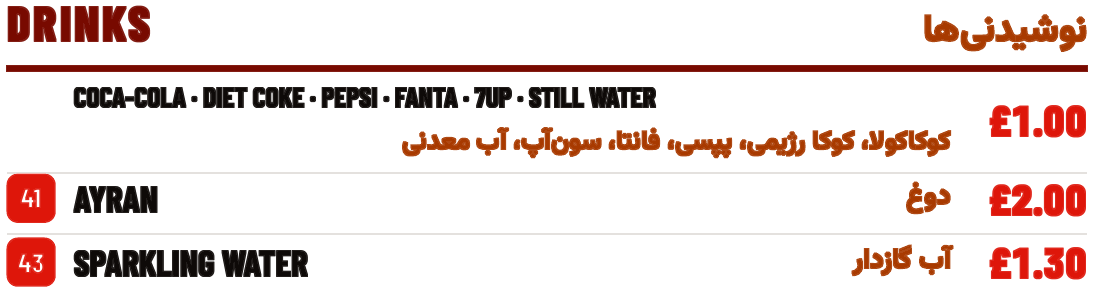
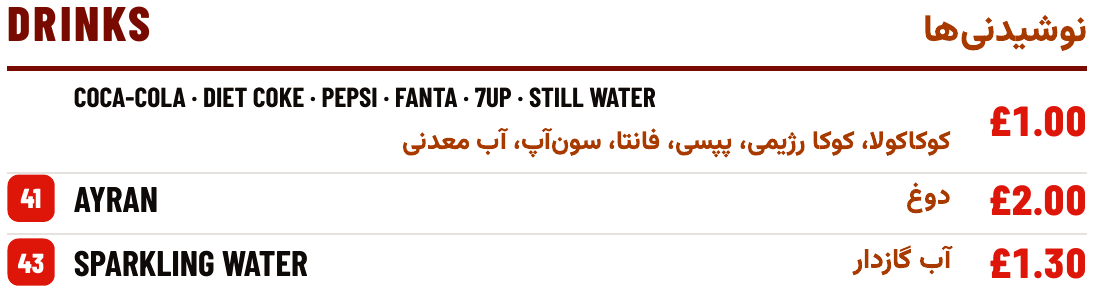
Clearer left TV, thinner type, allergy notice on one TV, no Coming soon, warmer colours
Ryan, 2 Nov, from the shop: the static TV is "way too small ... make it way more clear"; "get rid
of the food allergies, only have them in one section"; "forget the coming soon part"; the text is
"a bit too thick ... 6 and 9 not very visible"; and the photo showed the right TV red/pink and the
left glass white.

- build-walls.py also caps the empty space across each row (between a name and its price), so
  short-line sections are narrower; the left TV's columns take the width each needs. Left TV text
  1.08x -> 1.22x the original boards, all nine sections, nothing removed.
- Right TV: each slide is scaled to fill its space (2.45x-4.19x, was 2.42x for every slide).
- Lettering no longer thickened (it closed up 6, 8, 9).
- Allergy notice only on the right TV; the left TV uses the space for the menu.
- Coming soon slide removed.
- Right TV marble and glass shifted to warm orange and amber (the TV pushes colours red); left
  glass clearly yellow.
- tools/check.cjs: all 7 pass.

Claude-Session: https://claude.ai/code/session_01GCEwpkWzwaa1Hpz45ttbNV

diff --git a/site/monitor-2/layout.css b/site/monitor-2/layout.css
@@ -1,13 +1,12 @@
-/* Made by tools/build-walls.py: do not edit by hand. Right TV, one section at a time, text scale 1.208. */
-.tvslide.sec-starters { left: 1.042%; top: 5.372%; width: 70.104%; height: 81.664%; }
-.tvslide.sec-sauces { left: 1.042%; top: 29.260%; width: 70.104%; height: 33.887%; }
-.tvslide.sec-drinks { left: 1.042%; top: 28.757%; width: 70.104%; height: 34.894%; }
-.tvslide.sec-sandwiches { left: 1.042%; top: 11.022%; width: 70.104%; height: 70.363%; }
-.tvslide.sec-burgers { left: 1.042%; top: 15.386%; width: 70.104%; height: 61.636%; }
-.tvslide.sec-doner { left: 1.042%; top: 27.022%; width: 70.104%; height: 38.363%; }
-.tvslide.sec-platters { left: 1.042%; top: 30.547%; width: 70.104%; height: 31.314%; }
-.tvslide.sec-shawarma { left: 1.042%; top: 30.491%; width: 70.104%; height: 31.425%; }
-.tvslide.sec-hotdogs { left: 1.042%; top: 23.945%; width: 70.104%; height: 44.517%; }
-.tvslide.soon { left: 1.042%; top: 6.852%; width: 70.104%; height: 78.704%; }
-.side { left: 71.875%; top: 1.296%; width: 27.083%; height: 89.815%; }
-.allergy-bar { left: 1.042%; right: 1.042%; top: 92.037%; height: 7.037%; }
+/* Made by tools/build-walls.py: do not edit by hand. Right TV, one section at a time, each as big as fits. */
+.tvslide.sec-starters { left: 9.157%; top: 1.111%; width: 53.977%; height: 90.000%; }
+.tvslide.sec-sauces { left: 0.729%; top: 28.090%; width: 70.833%; height: 36.042%; }
+.tvslide.sec-drinks { left: 0.729%; top: 28.627%; width: 70.833%; height: 34.969%; }
+.tvslide.sec-sandwiches { left: 0.729%; top: 10.651%; width: 70.833%; height: 70.921%; }
+.tvslide.sec-burgers { left: 0.729%; top: 15.074%; width: 70.833%; height: 62.074%; }
+.tvslide.sec-doner { left: 0.729%; top: 21.500%; width: 70.833%; height: 49.223%; }
+.tvslide.sec-platters { left: 0.729%; top: 23.821%; width: 70.833%; height: 44.579%; }
+.tvslide.sec-shawarma { left: 0.729%; top: 19.846%; width: 70.833%; height: 52.530%; }
+.tvslide.sec-hotdogs { left: 0.729%; top: 10.649%; width: 70.833%; height: 70.924%; }
+.side { left: 72.188%; top: 1.111%; width: 27.083%; height: 90.000%; }
+.allergy-bar { left: 0.729%; right: 0.729%; top: 92.037%; height: 7.037%; }

diff --git a/site/monitor-1/layout.css b/site/monitor-1/layout.css
@@ -1,11 +1,10 @@
-/* Made by tools/build-walls.py: do not edit by hand. Left TV, everything at once, text scale 0.542. */
-.sec-starters { left: 1.042%; top: 1.296%; width: 32.153%; height: 46.732%; }
-.sec-sauces { left: 1.042%; top: 49.324%; width: 32.153%; height: 19.963%; }
-.sec-drinks { left: 1.042%; top: 70.584%; width: 32.153%; height: 20.527%; }
-.sec-sandwiches { left: 33.924%; top: 1.296%; width: 32.153%; height: 47.135%; }
-.sec-burgers { left: 33.924%; top: 49.728%; width: 32.153%; height: 41.383%; }
-.sec-doner { left: 66.806%; top: 1.296%; width: 32.153%; height: 22.585%; }
-.sec-platters { left: 66.806%; top: 25.177%; width: 32.153%; height: 18.613%; }
-.sec-shawarma { left: 66.806%; top: 45.087%; width: 32.153%; height: 18.676%; }
-.sec-hotdogs { left: 66.806%; top: 65.059%; width: 32.153%; height: 26.052%; }
-.allergy-bar { left: 1.042%; right: 1.042%; top: 92.037%; height: 7.037%; }
+/* Made by tools/build-walls.py: do not edit by hand. Left TV, everything at once, text scale 0.609. */
+.sec-starters { left: 0.729%; top: 1.111%; width: 33.637%; height: 60.380%; }
+.sec-sauces { left: 0.729%; top: 62.602%; width: 33.637%; height: 36.287%; }
+.sec-sandwiches { left: 34.991%; top: 1.111%; width: 35.763%; height: 39.281%; }
+.sec-burgers { left: 34.991%; top: 41.503%; width: 35.763%; height: 34.880%; }
+.sec-drinks { left: 34.991%; top: 77.494%; width: 35.763%; height: 21.395%; }
+.sec-doner { left: 71.379%; top: 1.111%; width: 27.892%; height: 24.599%; }
+.sec-platters { left: 71.379%; top: 26.821%; width: 27.892%; height: 21.044%; }
+.sec-shawarma { left: 71.379%; top: 48.976%; width: 27.892%; height: 21.100%; }
+.sec-hotdogs { left: 71.379%; top: 71.187%; width: 27.892%; height: 27.702%; }

diff --git a/site/monitor-2/index.html b/site/monitor-2/index.html
@@ -29,13 +29,6 @@
   <div class="card tvslide sec-shawarma" data-hold="7" data-accent="#ffa200" data-scene="4"><img src="/monitor-2/sec-shawarma.png" alt="Shawarma, 28 to 30"></div>
   <div class="card tvslide sec-hotdogs" data-hold="9" data-accent="#ff3a1c" data-scene="5"><img src="/monitor-2/sec-hotdogs.png" alt="Hot dogs, 31 to 35"></div>
   <div class="card tvslide sec-drinks" data-hold="7" data-accent="#ff9a1c" data-scene="8"><img src="/monitor-2/sec-drinks.png" alt="Drinks"></div>
-  <!-- Coming soon (Ryan, 2 Nov 2026): real food photos with the background cut out. Until one is added it
-       shows the words only. To add one: put the cut-out PNG in site/monitor-2/, set it as .soon-photo's src
-       and remove the hidden attribute. -->
-  <div class="card tvslide soon" data-hold="6" data-accent="#ffc400">
-    <img class="soon-photo" src="" alt="" hidden>
-    <div class="soon-words"><span class="soon-en">COMING SOON</span><span class="soon-fa">بهزودی</span></div>
-  </div>
   <div class="bigwipe"></div>
   <div class="card side">
     <img class="side-logo" src="/monitor-2/logo.png" alt="Ajdar Zapata Sandwich">

diff --git a/site/screen.js b/site/screen.js
@@ -18,12 +18,14 @@
 
   // The bottom bar: only the allergy notice (Ryan, 2 Nov 2026), and the flames behind the glass (flame.js).
   const stage = document.getElementById('stage');
-  if (stage) {
+  if (stage && document.body.dataset.monitor === '2') { // the allergy notice: right TV only (Ryan: "only in one section")
     const bar = document.createElement('div');
     bar.className = 'allergy-bar';
     bar.innerHTML = '<p lang="en"><b>Food Allergies and Intolerances:</b> Before ordering please speak to our staff about your requirements.</p>'
       + '<p lang="fa" dir="rtl"><b>حساسیت و عدم تحمل غذایی:</b> لطفاً پیش از سفارش، نیازهای خود را با کارکنان ما در میان بگذارید.</p>';
     stage.appendChild(bar);
+  }
+  if (stage) {
     if (window.Flames) {
       const c = document.createElement('canvas');
       c.className = 'flames'; c.width = 480; c.height = 130; // drawn small, scaled up: light on the TVs

diff --git a/site/monitor-2/motion.css b/site/monitor-2/motion.css
@@ -13,8 +13,8 @@
   --fa: "Vazirmatn", Tahoma, sans-serif;
   /* The right TV: orange glass on the shared reddish-orange wall, hottest at its left edge where it meets
      the left TV. */
-  --marble: url(/marble-orange.jpg); --rim: #ff5a00;
-  --glass-top: rgba(255, 255, 255, .97); --glass-mid: rgba(255, 240, 222, .95); --glass-low: rgba(255, 210, 160, .95);
+  --marble: url(/marble-orange.jpg); --rim: #ff8a00;
+  --glass-top: rgba(255, 250, 230, .97); --glass-mid: rgba(255, 228, 170, .95); --glass-low: rgba(255, 200, 110, .95); /* amber, not pink */
   --glass-shade: rgba(150, 40, 0, .22); --type: #7a0800;
   --ink: #121110; /* type and badges on the orange boards */
   --yellow: #ffc61a; /* the left wall's yellow, used for accents here so the pair reads mainly yellow */

diff --git a/site/monitor-1/theme.css b/site/monitor-1/theme.css
@@ -1,2 +1,3 @@
 /* Monitor 1 = the left TV: yellow marble, pale yellow glass with a golden rim (Ryan, 2 Nov 2026). */
-:root { --marble: url(/marble-yellow.jpg); --rim: #ffaa00; }
+:root { --marble: url(/marble-yellow.jpg); --rim: #ff9a00;
+  --glass-top: rgba(255, 252, 225, .97); --glass-mid: rgba(255, 238, 150, .95); --glass-low: rgba(255, 220, 90, .95); } /* clearly yellow glass */

diff --git a/tools/build-walls.py b/tools/build-walls.py
@@ -28,14 +28,15 @@ SECTIONS = {
 # Left TV: the whole menu at once, three columns (the last one is next to the middle of the pair, above
 # half the logo). Right TV: one section at a time, as big as the screen allows (Ryan, 2 Nov 2026: "one of
 # them static with everything, the other one cycling big").
-STATIC = [['starters', 'sauces', 'drinks'], ['sandwiches', 'burgers'], ['doner', 'platters', 'shawarma', 'hotdogs']]
+STATIC = [['starters', 'sauces'], ['sandwiches', 'burgers', 'drinks'], ['doner', 'platters', 'shawarma', 'hotdogs']]
 # Colours on each wall (Ryan, 2 Nov 2026: "different colours ... very nice", like the big chains' boards:
 # strong red prices, dark headings, black item names, high contrast on bright glass).
 #   heading: section titles · price: prices and number tags · persian: Persian names · name: English item
 #   names · desc: the small descriptions
 PALETTE = {1: {'heading': (120, 10, 0), 'price': (222, 22, 10), 'persian': (168, 58, 0), 'name': (14, 10, 8), 'desc': (72, 52, 36)},
            2: {'heading': (110, 6, 0), 'price': (206, 14, 30), 'persian': (150, 46, 0), 'name': (14, 10, 8), 'desc': (70, 46, 34)}}
-CAP = 16  # longest blank gap kept inside a section, in board pixels
+CAP = 16  # longest blank gap kept inside a section, in board pixels (down)
+HCAP = 34  # longest blank gap kept across a row (between a name and its price)
 
 def tighten(a):
     """Drop thin divider lines and cap blank gaps. Returns the new image and the heading-rule row."""
@@ -66,6 +67,22 @@ def tighten(a):
         else:
             y += 1
     out = a[keep]
+    # the same across: cap the empty space between names and prices (full-width lines are ignored when
+    # looking for it, and simply come out shorter)
+    ink2 = np.abs(out - B).max(axis=2) > 30
+    lines = ink2.mean(axis=1) > 0.5
+    cols = ink2[~lines].any(axis=0)
+    keepc = np.ones(len(cols), bool)
+    x = 0
+    while x < len(cols):
+        if not cols[x]:
+            e = x
+            while e < len(cols) and not cols[e]: e += 1
+            if x > 0 and e < len(cols) and e - x > HCAP: keepc[x + HCAP:e] = False
+            x = e
+        else:
+            x += 1
+    out = out[:, keepc]
     # heading rule: the first thick full-width orange band
     o = (np.abs(out - np.array([240, 124, 26])).max(axis=2) < 60).mean(axis=1) > 0.8
     rule = int(np.argmax(o)) if o.any() else 60
@@ -75,7 +92,7 @@ def lift(a, pal, rule):
     """Black-background lettering -> see-through ink in the wall's colours, each part its own colour:
     orange ink above the heading rule is the heading, the rest of the orange ink is prices and number tags;
     yellow ink is Persian; cream ink is item names, the dimmer grey lines are descriptions. Everything but
-    the descriptions is thickened by a pixel so it reads bolder from across the shop."""
+    nothing is thickened (Ryan: thickening closed up the 6s and 9s)."""
     from PIL import ImageFilter
     v = a - B
     r = np.maximum(v[..., 0], 1)
@@ -98,9 +115,6 @@ def lift(a, pal, rule):
     layers = {}
     for name, m in parts.items():
         la = np.where(m, alpha, 0)
-        if name != 'desc':
-            grown = np.asarray(Image.fromarray((la * 255).astype(np.uint8)).filter(ImageFilter.MaxFilter(3)), float) / 255
-            la = np.maximum(la, grown * 0.92)
         layers[name] = la
     names = list(layers)
     stack = np.stack([layers[n] for n in names])
@@ -132,56 +146,58 @@ for name, (b, y0, y1) in SECTIONS.items():
 
 # ---- layout, in pixels of a 1920x1080 screen
 W, H = 1920.0, 1080.0
-M, GAP, PAD = 20.0, 14.0, 12.0          # outer margin, between panels, inside a panel
-TOP, BOTTOM = 14.0, 1080 - 96.0         # the allergy bar sits below BOTTOM
+M, GAP, PAD = 14.0, 12.0, 10.0          # outer margin, between panels, inside a panel
+TOP = 12.0
+BOTTOM1 = H - 12.0                      # left TV: no bottom bar (allergy notice only on the right TV)
+BOTTOM2 = H - 96.0                      # right TV: the allergy bar sits below this
 pct = lambda v, ref: f'{v / ref * 100:.3f}%'
-CW = X1 - X0
+size = {n: (t[0].shape[1], t[0].shape[0]) for n, t in tight.items()}   # (width, height) in board pixels
 
 def common(mon, css):
-    # the bottom bar: only the allergy notice (Ryan, 2 Nov 2026), on both TVs
-    css.append(f'.allergy-bar {{ left: {pct(M, W)}; right: {pct(M, W)}; top: {pct(BOTTOM + 10, H)}; height: {pct(H - BOTTOM - 20, H)}; }}')
+    if mon == 2:  # the allergy notice, on the right TV only (Ryan, 2 Nov 2026: "only in one section")
+        css.append(f'.allergy-bar {{ left: {pct(M, W)}; right: {pct(M, W)}; top: {pct(BOTTOM2 + 10, H)}; height: {pct(H - BOTTOM2 - 20, H)}; }}')
     logo().save(f'site/monitor-{mon}/logo.png', optimize=True)
 
 for mon in (1, 2):
     for name, (img, rule) in tight.items():
         lift(img, PALETTE[mon], rule).save(f'site/monitor-{mon}/sec-{name}.png', optimize=True)
 
-# Left TV: everything, three columns, one scale.
-col_w = (W - 2 * M - 2 * GAP) / 3
-s1 = (col_w - 2 * PAD) / CW
-for i, names in enumerate(STATIC):
-    bottom = BOTTOM
-    while TOP + sum(tight[n][0].shape[0] * s1 + 2 * PAD for n in names) + GAP * (len(names) - 1) > bottom:
-        s1 -= 0.002
+# Left TV: everything at once. Each column is as wide as its widest section needs, all at one text scale,
+# as big as both the screen's width and each column's height allow.
+def col_w_board(names): return max(size[n][0] for n in names)
+def col_h_board(names): return sum(size[n][1] for n in names)
+fixed_w = 2 * M + GAP * (len(STATIC) - 1) + 2 * PAD * len(STATIC)
+s1 = (W - fixed_w) / sum(col_w_board(c) for c in STATIC)
+for names in STATIC:
+    s1 = min(s1, (BOTTOM1 - TOP - GAP * (len(names) - 1) - 2 * PAD * len(names)) / col_h_board(names))
 css = [f'/* Made by tools/build-walls.py: do not edit by hand. Left TV, everything at once, text scale {s1:.3f}. */']
-for i, names in enumerate(STATIC):
-    x = M + i * (col_w + GAP)
+extra_w = (W - fixed_w - s1 * sum(col_w_board(c) for c in STATIC)) / len(STATIC)   # share any spare width
+x = M
+for names in STATIC:
+    cw = col_w_board(names) * s1 + 2 * PAD + extra_w
+    used = sum(size[n][1] * s1 + 2 * PAD for n in names) + GAP * (len(names) - 1)
+    grow = (BOTTOM1 - TOP - used) / len(names)          # panels share the leftover height: fill to the bottom
     y = TOP
-    bottom = BOTTOM
-    used = sum(tight[n][0].shape[0] * s1 + 2 * PAD for n in names) + GAP * (len(names) - 1)
-    grow = (bottom - TOP - used) / sum(tight[n][0].shape[0] for n in names)  # fill the column to the bottom:
-    for n in names:                                                         # taller glass, lettering centred
-        h = tight[n][0].shape[0] * (s1 + grow) + 2 * PAD
-        css.append(f'.sec-{n} {{ left: {pct(x, W)}; top: {pct(y, H)}; width: {pct(col_w, W)}; height: {pct(h, H)}; }}')
+    for n in names:
+        h = size[n][1] * s1 + 2 * PAD + grow
+        css.append(f'.sec-{n} {{ left: {pct(x, W)}; top: {pct(y, H)}; width: {pct(cw, W)}; height: {pct(h, H)}; }}')
         y += h + GAP
+    x += cw + GAP
 common(1, css)
 open('site/monitor-1/layout.css', 'w').write('\n'.join(css) + '\n')
 
-# Right TV: one section at a time on the left, its food animation in a column on the right.
+# Right TV: one section at a time, each scaled to fill the space beside the food column.
 SIDE_W = 520.0
 area_x, area_w = M, W - 2 * M - SIDE_W - GAP
-area_top, area_bottom = TOP, BOTTOM
-s2 = (area_w - 2 * PAD) / CW
-tallest = max(t[0].shape[0] for t in tight.values())
-s2 = min(s2, (area_bottom - area_top - 2 * PAD) / tallest)
-css = [f'/* Made by tools/build-walls.py: do not edit by hand. Right TV, one section at a time, text scale {s2:.3f}. */']
-for n, (img, rule) in tight.items():
-    h = img.shape[0] * s2 + 2 * PAD
-    w = CW * s2 + 2 * PAD
-    y = area_top + (area_bottom - area_top - h) / 2
-    css.append(f'.tvslide.sec-{n} {{ left: {pct(area_x + (area_w - w) / 2, W)}; top: {pct(y, H)}; width: {pct(w, W)}; height: {pct(h, H)}; }}')
-css.append(f'.tvslide.soon {{ left: {pct(area_x, W)}; top: {pct(area_top + 60, H)}; width: {pct(area_w, W)}; height: {pct(area_bottom - area_top - 120, H)}; }}')
-css.append(f'.side {{ left: {pct(W - M - SIDE_W, W)}; top: {pct(TOP, H)}; width: {pct(SIDE_W, W)}; height: {pct(BOTTOM - TOP, H)}; }}')
+area_top, area_bottom = TOP, BOTTOM2
+css = ['/* Made by tools/build-walls.py: do not edit by hand. Right TV, one section at a time, each as big as fits. */']
+scales = []
+for n, (w0, h0) in size.items():
+    s2 = min((area_w - 2 * PAD) / w0, (area_bottom - area_top - 2 * PAD) / h0)
+    scales.append(s2)
+    w, h = w0 * s2 + 2 * PAD, h0 * s2 + 2 * PAD
+    css.append(f'.tvslide.sec-{n} {{ left: {pct(area_x + (area_w - w) / 2, W)}; top: {pct(area_top + (area_bottom - area_top - h) / 2, H)}; width: {pct(w, W)}; height: {pct(h, H)}; }}')
+css.append(f'.side {{ left: {pct(W - M - SIDE_W, W)}; top: {pct(TOP, H)}; width: {pct(SIDE_W, W)}; height: {pct(BOTTOM2 - TOP, H)}; }}')
 common(2, css)
 open('site/monitor-2/layout.css', 'w').write('\n'.join(css) + '\n')
-print(f'left TV (everything): text {s1 / 0.5:.2f}x the original boards | right TV (one at a time): text {s2 / 0.5:.2f}x')
+print(f'left TV (everything): text {s1 / 0.5:.2f}x the original boards (was 1.08x) | right TV: {min(scales) / 0.5:.2f}x to {max(scales) / 0.5:.2f}x (was 2.42x for all)')

diff --git a/tools/make-marble.py b/tools/make-marble.py
@@ -93,8 +93,8 @@ def make(name, stops, ring, fill, glint, seed):
 
 # right TV: orange marble (deep red, red-orange, orange, light orange, cream)
 make('marble-orange.jpg',
-     [(0, (150, 20, 8)), (.22, (214, 46, 12)), (.42, (246, 92, 16)), (.6, (255, 140, 40)), (.78, (255, 178, 92)), (1, (255, 226, 190))],
-     ring=(196, 70, 24, 235), fill=(255, 214, 196, 240), glint=(255, 245, 238, 230), seed=11)
+     [(0, (196, 66, 0)), (.22, (232, 98, 0)), (.42, (250, 128, 8)), (.6, (255, 160, 30)), (.78, (255, 192, 90)), (1, (255, 232, 180))],  # warm orange: TVs push red
+     ring=(206, 96, 10, 235), fill=(255, 226, 180, 240), glint=(255, 248, 230, 230), seed=11)
 # left TV: yellow marble (amber, golden, yellow, pale yellow, cream)
 make('marble-yellow.jpg',
      [(0, (214, 104, 0)), (.22, (240, 150, 0)), (.42, (255, 190, 10)), (.6, (255, 214, 40)), (.78, (255, 232, 120)), (1, (255, 246, 210))],
